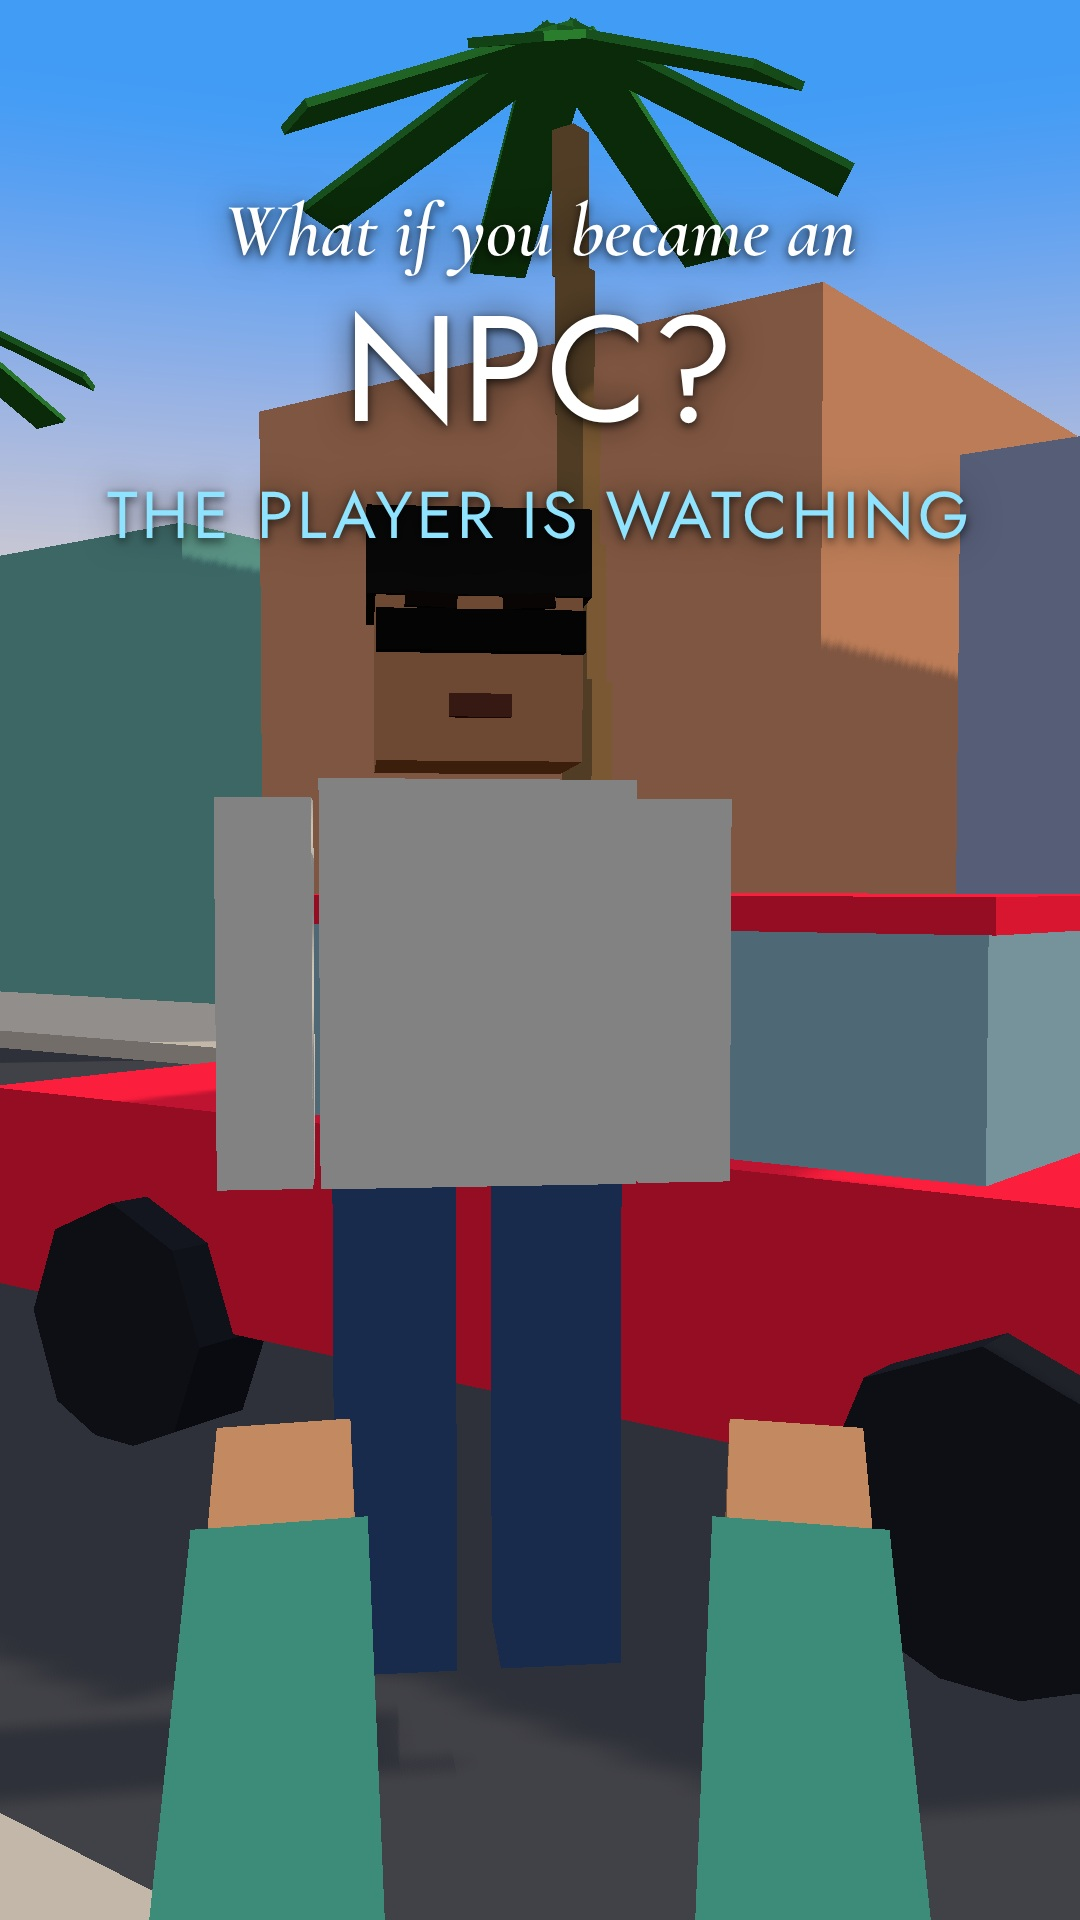
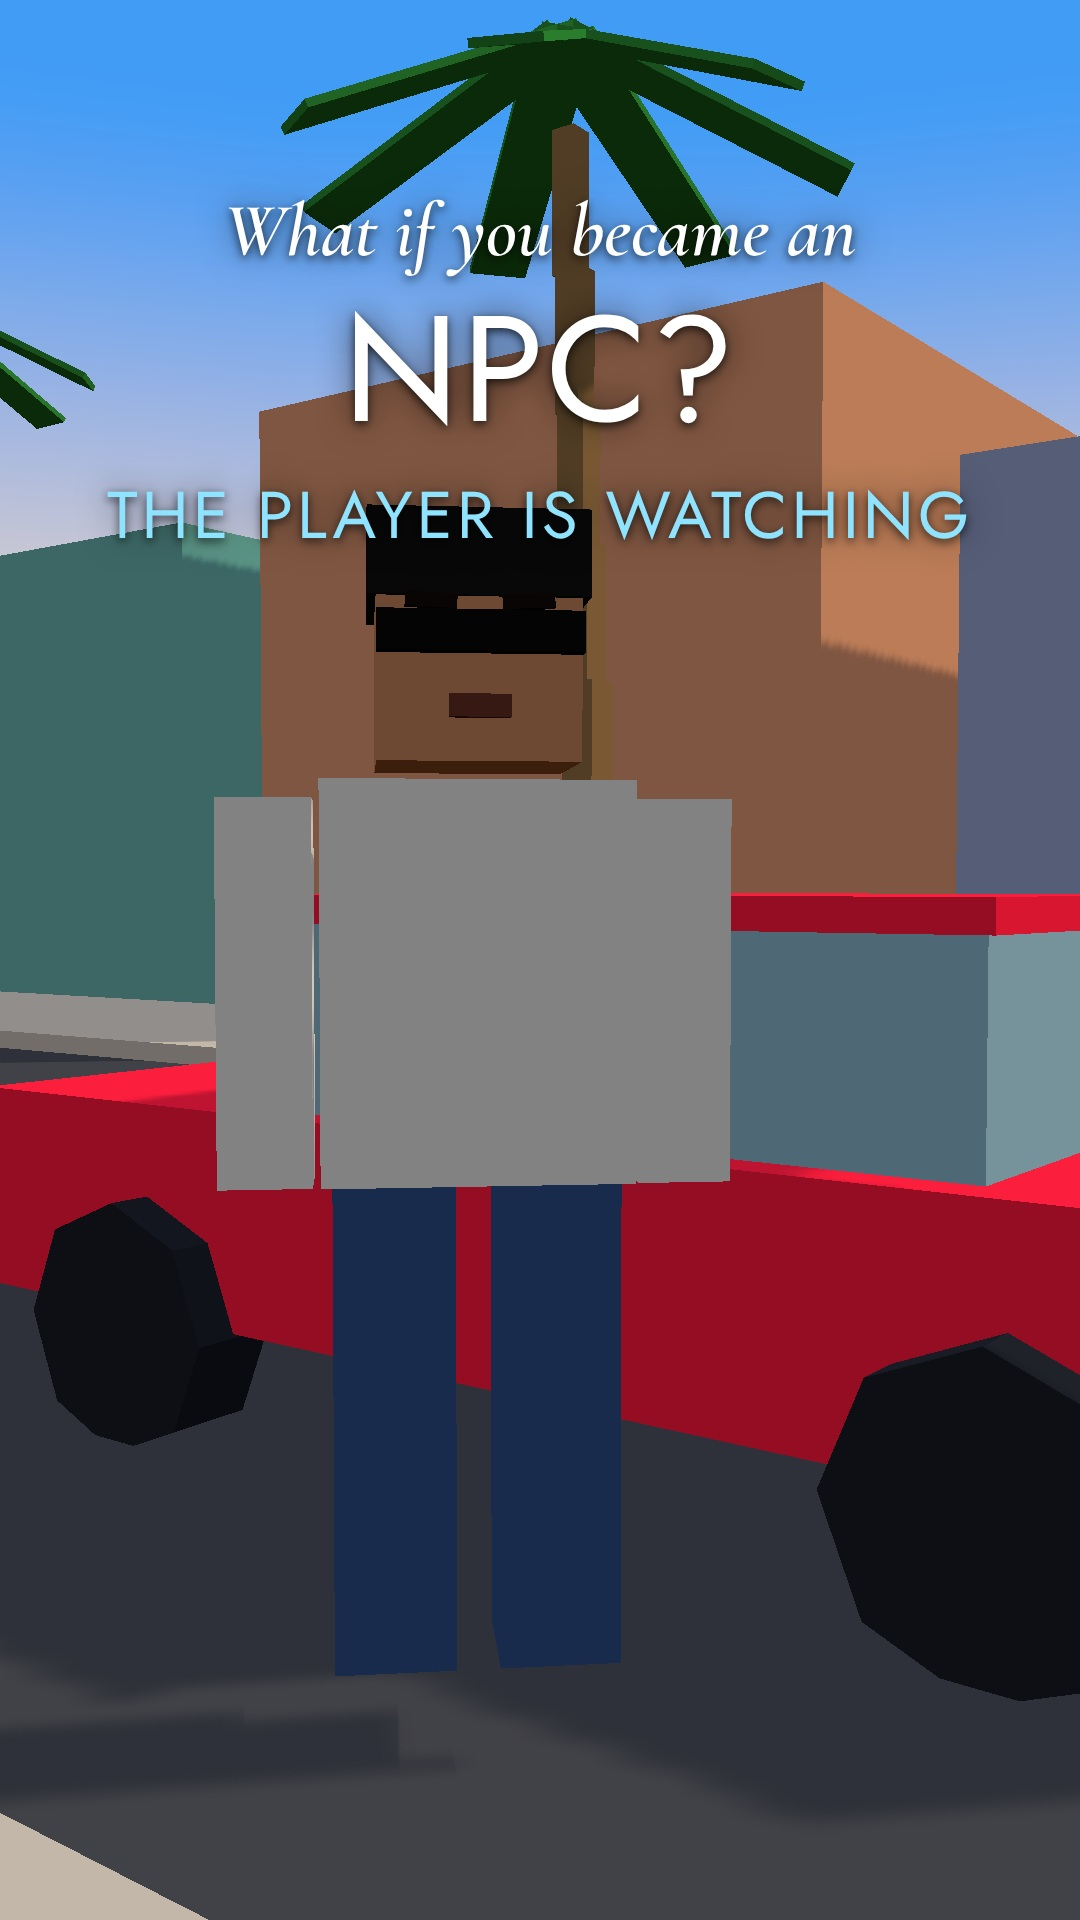
NPC video: remove first-person hands
Claude-Session: https://claude.ai/code/session_014qTixhTy7EhVYRvebScWjD

Changed region(s): [[0.1222, 0.7188, 0.3667, 1.0], [0.6417, 0.7188, 0.8861, 1.0]]

diff --git a/Assets/lowpoly-kit/npc.js b/Assets/lowpoly-kit/npc.js
@@ -92,7 +92,7 @@ window.renderAt=t=>{ let k=SH.findIndex(s=>t<s[1]); if(k<0)k=NS-1; const T0=SH[k
  peds.forEach((q,i)=>{ const p=q.p; reset(p); const L=60; if(pedMode===1){ const x=((q.x0+9*tt)%L+L)%L-30; p.position.set(x,.2,q.z+(i%3)*.4); p.rotation.y=Math.PI/2; p.userData.pose(tt*12+i,.8); arms(p,-2.8+Math.sin(tt*20+i)*.5,-2.6+Math.cos(tt*18+i)*.5); mood(p,'shock'); }
   else { const x=((q.x0+q.dir*1.3*tt)%L+L)%L-30; p.position.set(x,.2,q.z); p.rotation.y=q.dir*Math.PI/2; p.userData.pose(tt*5+i,.35); mood(p,'calm'); if(pedMode===2&&freeze>0){ p.userData.pose(freeze*5+i,.35); } } p.visible=!inVoid&&p.position.distanceTo(V(cam.position.x,.2,cam.position.z))>(pedMode===1?3:1.6); });
  // ---- hands
- hands.visible=handsOn; const bob=walk?Math.sin(tt*6):0; hL.position.y=-.27+bob*.025; hR.position.y=-.27-bob*.025; hL.rotation.x=.35+bob*.15; hR.rotation.x=.35-bob*.15; if(k===6&&u>.4){ hR.position.set(.14,-.2,-.62); hR.rotation.set(.9,-.2,0); } else hR.position.set(.16,hR.position.y,-.62);
+ hands.visible=false; const bob=walk?Math.sin(tt*6):0; hL.position.y=-.27+bob*.025; hR.position.y=-.27-bob*.025; hL.rotation.x=.35+bob*.15; hR.rotation.x=.35-bob*.15; if(k===6&&u>.4){ hR.position.set(.14,-.2,-.62); hR.rotation.set(.9,-.2,0); } else hR.position.set(.16,hR.position.y,-.62);
  // ---- bubbles
  const fwd=V(0,0,-1).applyQuaternion(cam.quaternion), upv=V(0,1,0).applyQuaternion(cam.quaternion);
  lines.forEach((s,i)=>{ const on=(lineShow===i)||(lineShow===3); s.visible=on; if(on){ const yy=lineShow===3?(.5-i*.13):.48; s.position.copy(cam.position).add(fwd.clone().multiplyScalar(2.6)).add(upv.clone().multiplyScalar(yy*1.3)); s.quaternion.copy(cam.quaternion); s.scale.setScalar(lineShow===3?.85:1); } });
